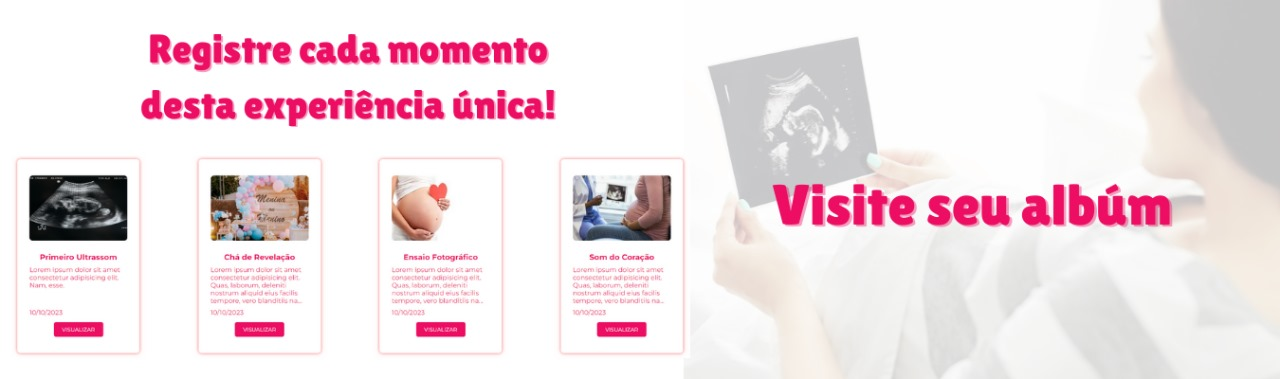
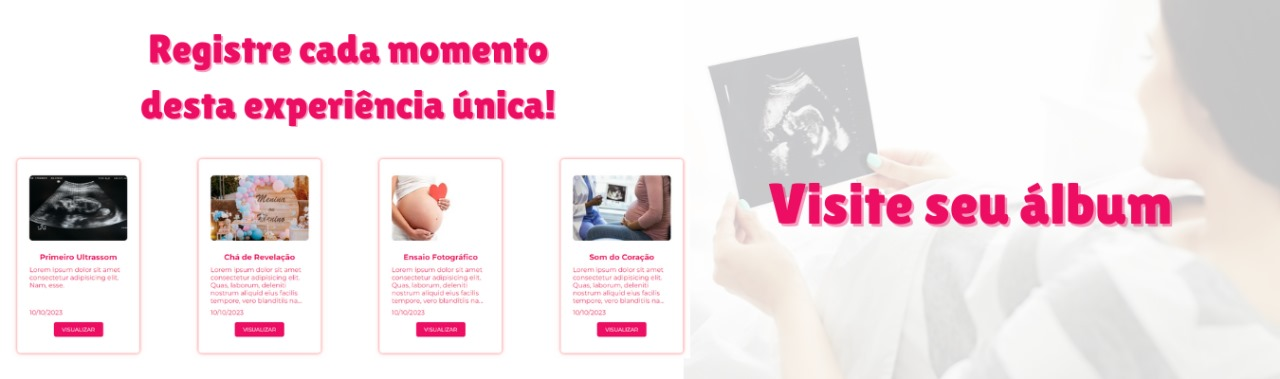
Ajustes finais.

Changed region(s): [[0.5938, 0.4644, 0.9062, 0.6095]]

diff --git a/scripts/script_index.js b/scripts/script_index.js
@@ -150,7 +150,7 @@ const postsCuriosities = [
         textoPost: '<strong> Março e maio são os meses com mais nascimentos no Brasil</strong>. Segundo um levantamento feito pela BBC News Brasil, com dados das últimas duas décadas, os meses de março e maio realmente têm mais nascimentos. <br> De acordo com a pesquisa, os números são 17% mais altos que o de nascimentos nos últimos três meses do ano.'
     },
     {
-        imagemPost: './img/fotoCuriosidades2.png',
+        imagemPost: './img/fotoCuriosidades2.jpeg',
         textoPost: '<strong>Dormir do lado esquerdo é melhor para a grávida</strong> <br> Deitar do lado direito pode provocar a compressão da veia cava, o que pode aumentar a pressão arterial da mulher. Portanto, se deitar do lado esquerdo é sempre mais confortável e seguro.'
     },
     {
@@ -158,7 +158,7 @@ const postsCuriosities = [
         textoPost: '<strong>Os bebês abrem os olhos dentro do útero e podem ver a luz do lado de fora</strong>. <br> Embora os olhos de um bebê possam “ver” a luz a partir mais ou menos da semana 16, seus olhos não estão totalmente formados até cerca da semana 20. Os olhos abrem primeiro entre as semanas 26 e 28.'
     },
     {
-        imagemPost: './img/fotoCuriosidades4.png',
+        imagemPost: './img/fotoCuriosidades4.jpeg',
         textoPost: '<strong>A dieta da mãe afeta as preferências alimentares futuras de um bebê</strong>. <br> Uma vez que as moléculas de sabor viajam tão facilmente, muitos estudos mostraram que preferências alimentares e aversões a determinados alimentos começam no útero desta maneira. Se a mãe evita certos alimentos, o bebê provavelmente rejeitará esses sabores fora do útero.'
     }
 ];

diff --git a/curiosidades.html b/curiosidades.html
@@ -77,7 +77,7 @@
                 <p class="texto_curiosidades ">Atualmente, muitos médicos orientam as novas mamães a dormirem para o
                     lado esquerdo do corpo. Claro, falar isso é muito mais fácil do que fazer;
                     especialmente para aquelas que costumam dormir de barriga ou costas para cima.</p>
-                <img class="imgPost" src="/img/fotoCuriosidades2.png" width="100%"
+                <img class="imgPost" src="/img/fotoCuriosidades2.jpeg" width="100%"
                     alt="foto de uma gravida anotando fazendo anotações em um calendário">
                 <p class="texto_curiosidades">
                     Deitar do lado direito pode provocar a compressão da veia cava, o que pode aumentar a pressão
@@ -117,7 +117,7 @@
                     mostraram que preferências alimentares e aversões a determinados alimentos começam no útero desta
                     maneira. Se a mãe evita certos alimentos, o bebê provavelmente rejeitará esses sabores fora do
                     útero.</p>
-                <img class="imgPost" src="/img/fotoCuriosidades4.png" width="100%"
+                <img class="imgPost" src="/img/fotoCuriosidades4.jpeg" width="100%"
                     alt="foto de uma gravida anotando fazendo anotações em um calendário">
                 <p class="texto_curiosidades">
                     O relacionamento continua após o nascimento, também, uma vez que as moléculas de sabor aparecem

diff --git a/css/index.css b/css/index.css
@@ -60,7 +60,7 @@ main {
     height: 400px; 
     padding: 180px 0px 150px 0px; 
     background-color: #fff; 
-    background-image: url(/img/images_3.jpg); 
+    background-image: url(/img/fotocarrossel2.png); 
     background-repeat: no-repeat; 
     background-size: cover;
     overflow: hidden;
